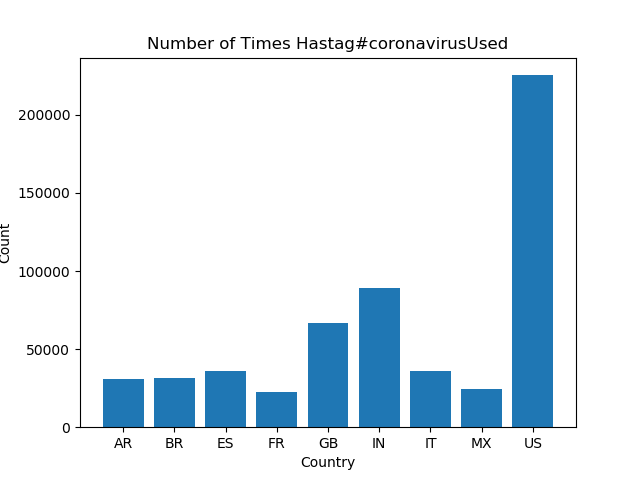
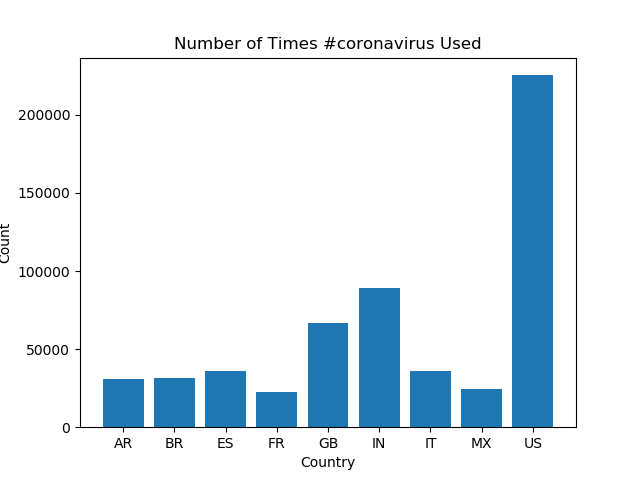
test pt.3

Changed region(s): [[0.2188, 0.0625, 0.7812, 0.125]]

diff --git a/src/visualize.py b/src/visualize.py
@@ -29,10 +29,10 @@ for k,v in items:
     print(k,':',v)
 
 #print graphs of values
-x_axis = [item[0] for item in sorted(items[:9], key=lambda x: x[1])]
-y_axis = [item[1] for item in sorted(items[:9], key=lambda x: x[1])]
+x_axis = [item[0] for item in sorted(items[:9], key=lambda x: x[1], reverse = True)]
+y_axis = [item[1] for item in sorted(items[:9], key=lambda x: x[1], reverse = True)]
 plt.bar(x_axis, y_axis)
-plt.title('Number of Times Hastag' + args.key + 'Used')
+plt.title('Number of Times ' + args.key + ' Used')
 plt.xlabel(args.input_path)
 plt.ylabel('Count')
 if args.input_path == 'reduced.country':
